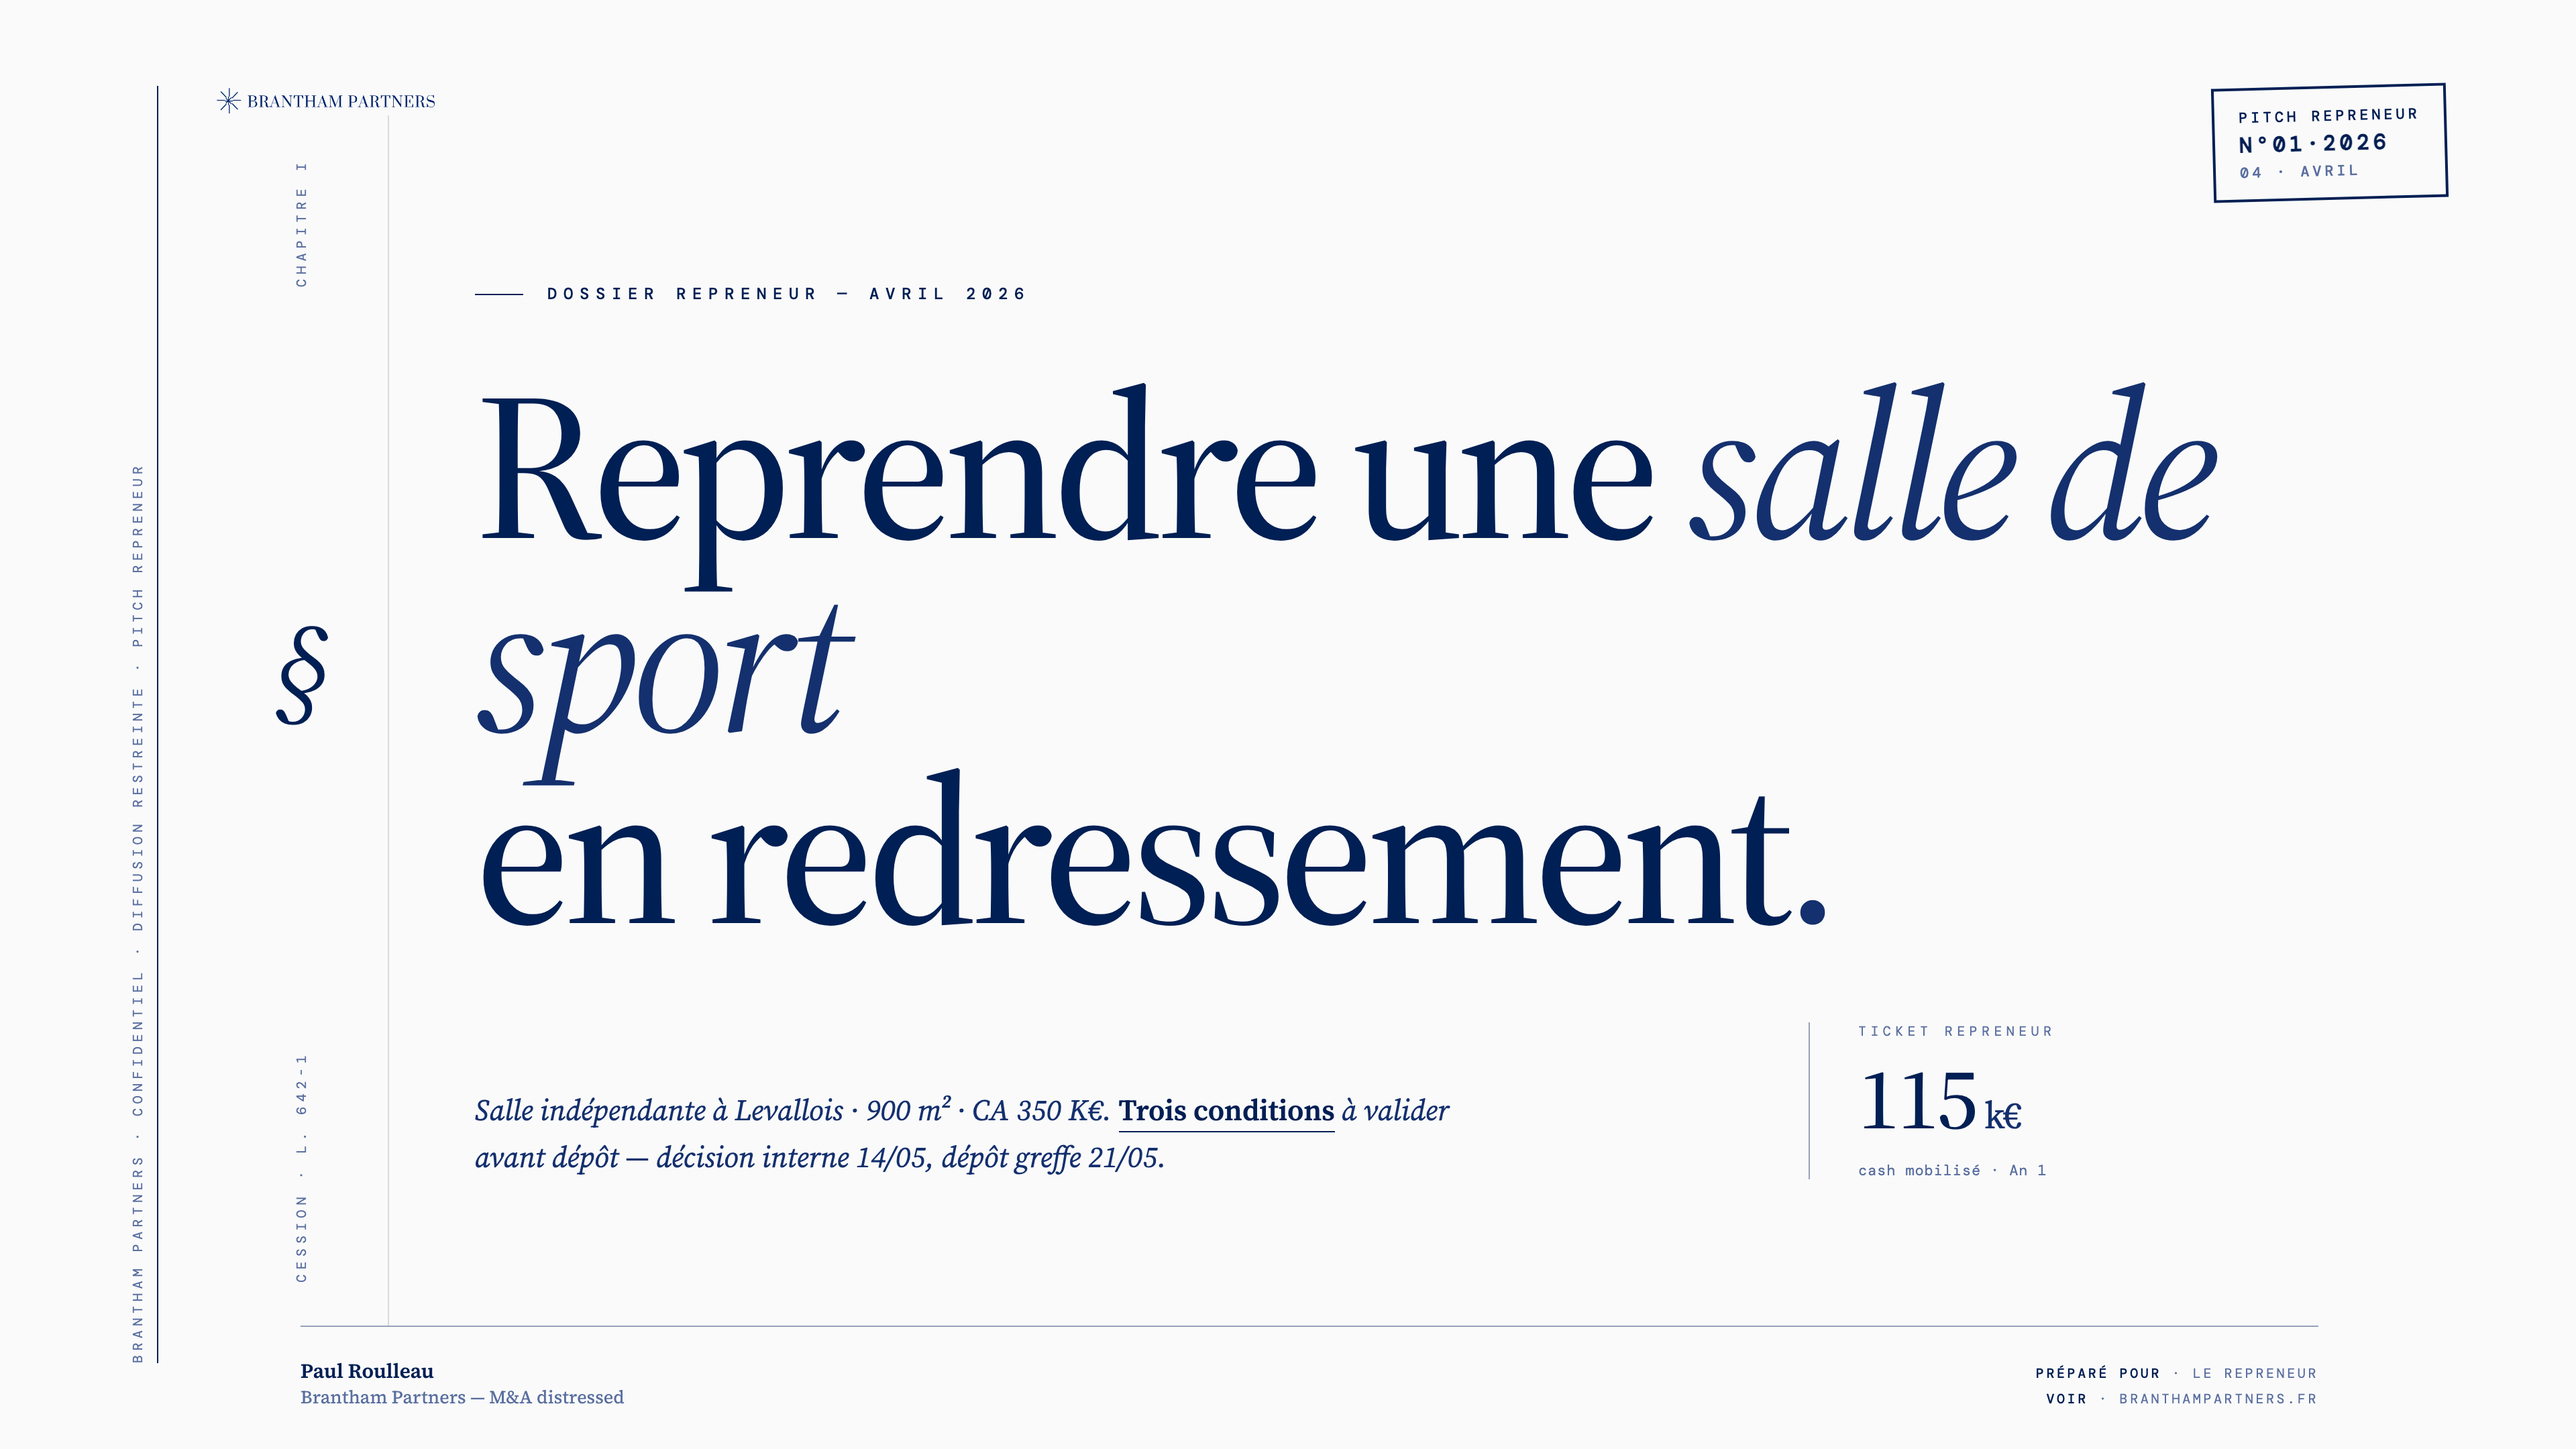
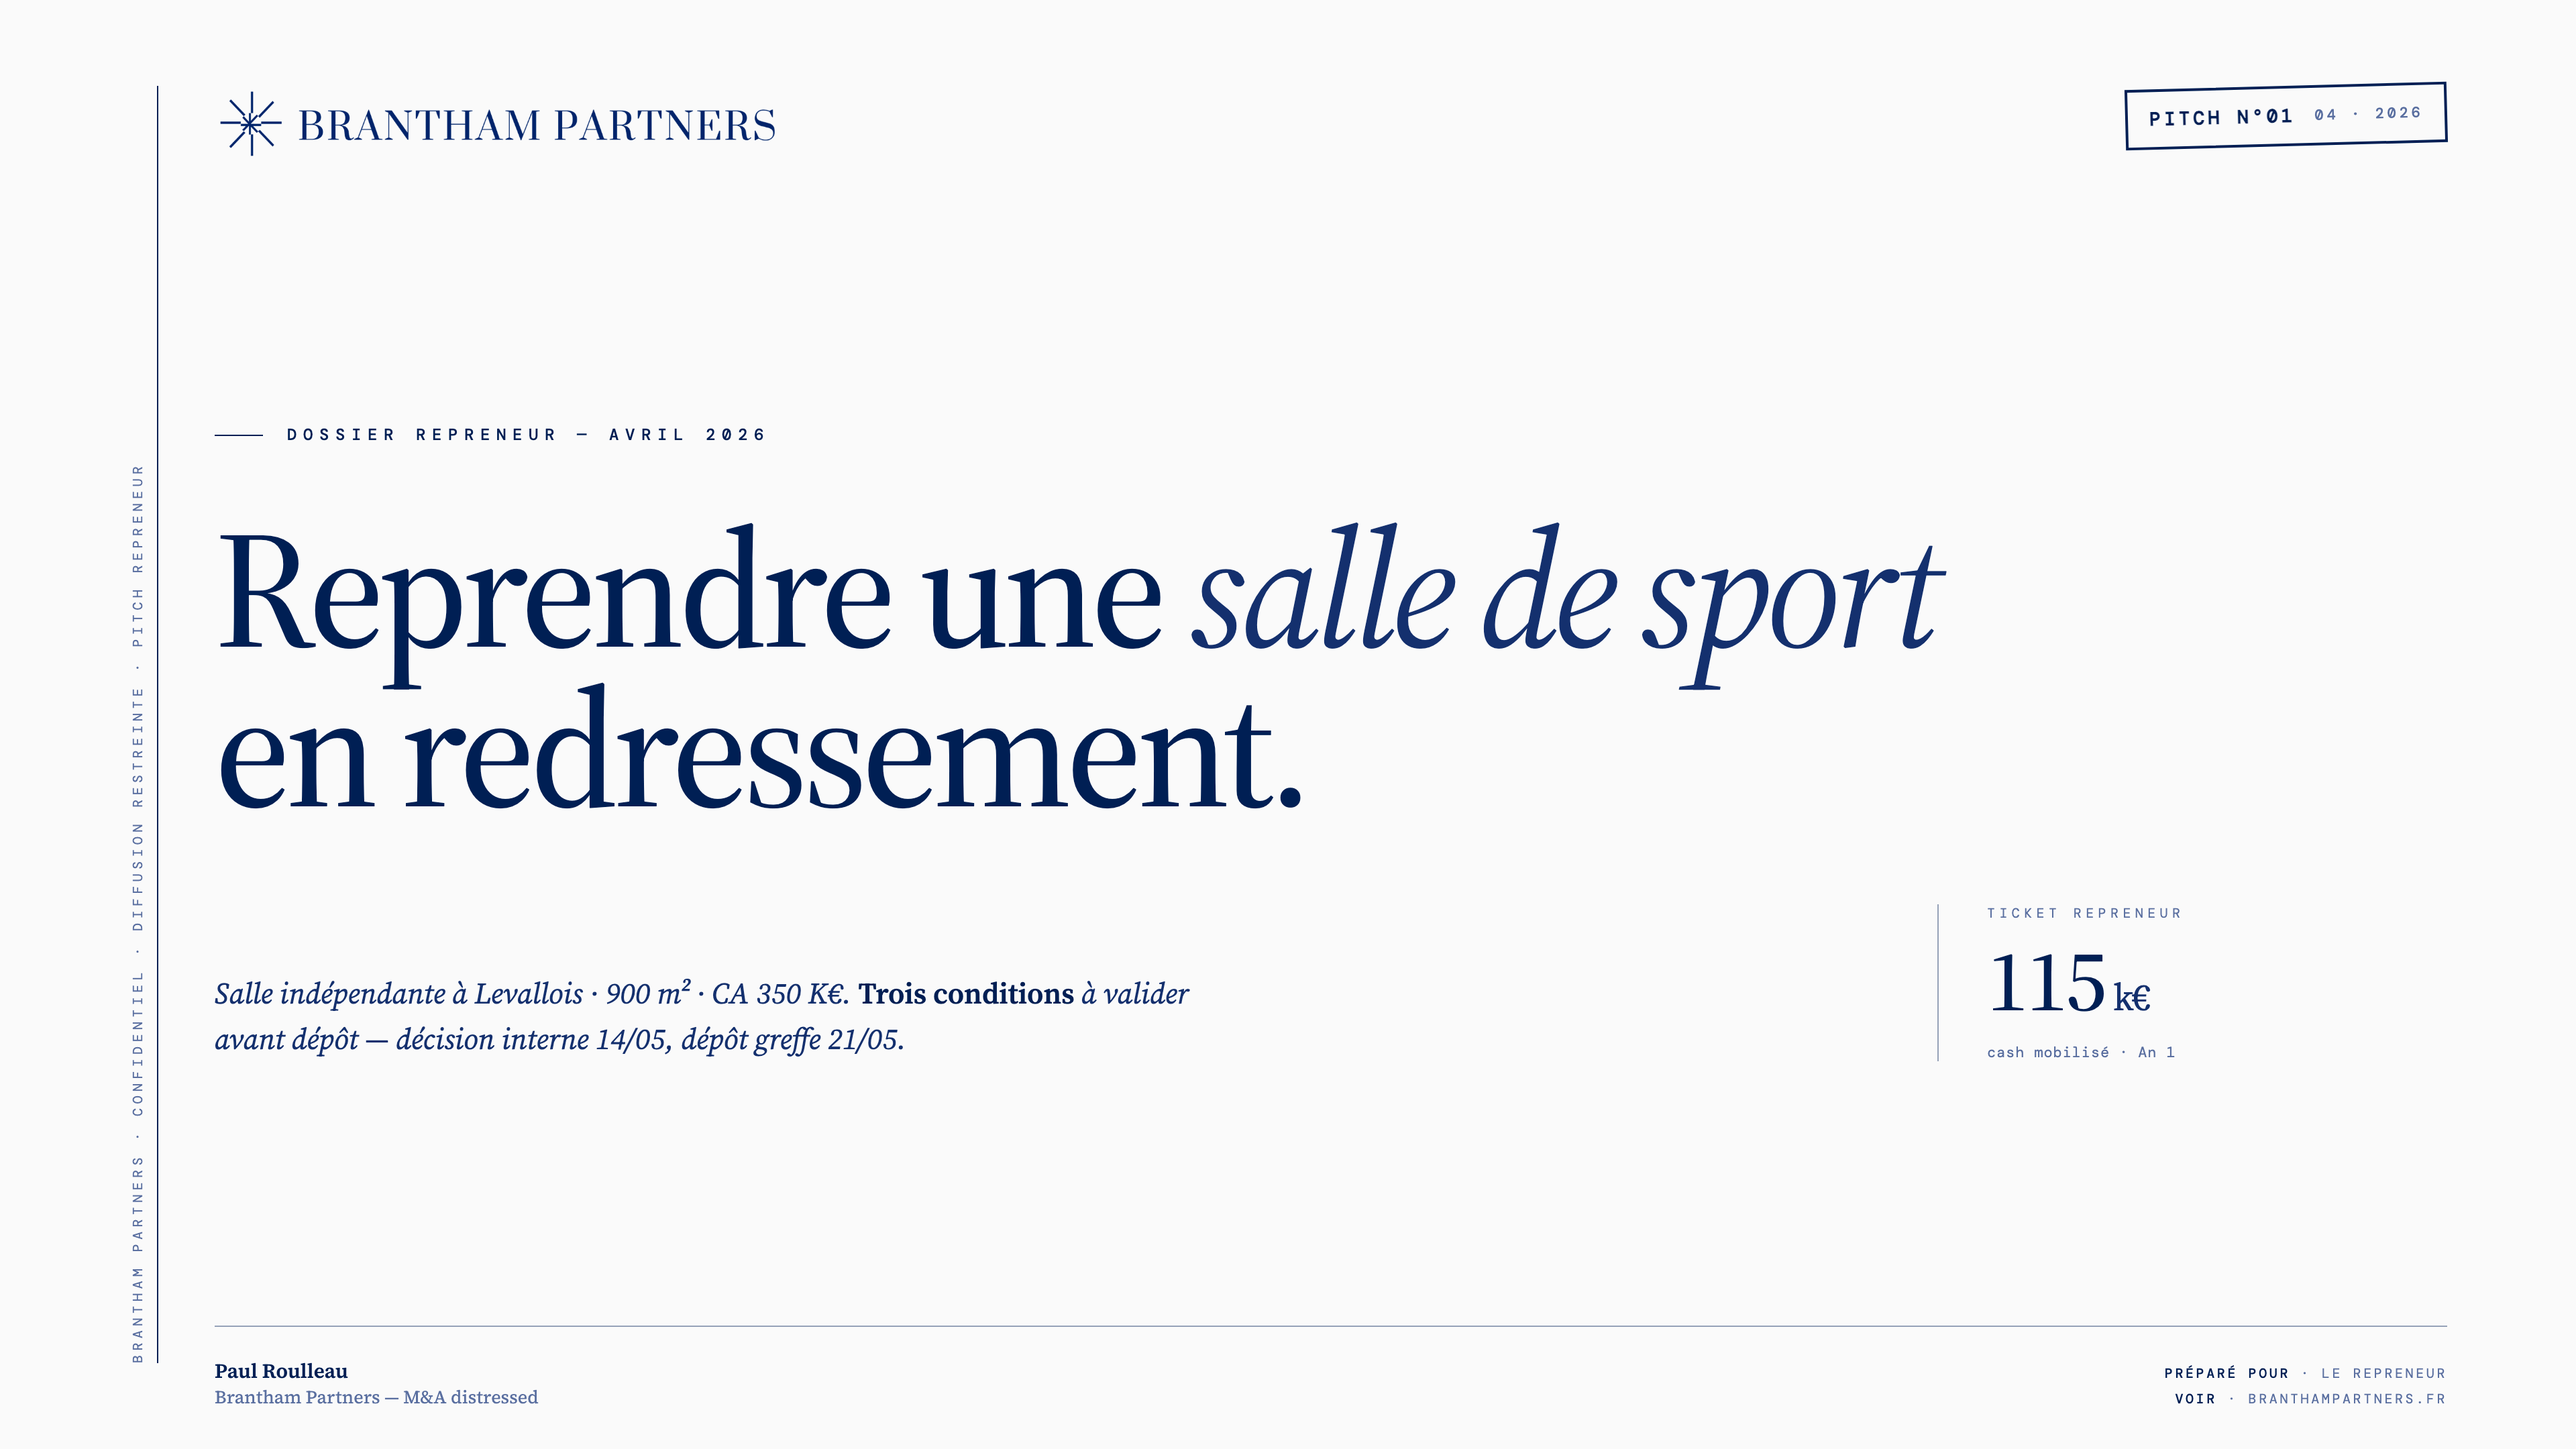
vault: sync 5 file(s) — 2026-04-29 16:05

diff --git a/brantham/deals/active/sas-fitness-levallois/pitch-deck/01-cover-bleu-v2.html b/brantham/deals/active/sas-fitness-levallois/pitch-deck/01-cover-bleu-v2.html
@@ -49,7 +49,7 @@
 
   .cover-title {
     font-family: var(--serif); font-weight: 500;
-    font-size: 124px; line-height: 0.96; letter-spacing: -0.035em;
+    font-size: 104px; line-height: 1.0; letter-spacing: -0.03em;
     color: var(--bleu-deep); max-width: 1480px;
   }
   .cover-title .it {

diff --git a/brantham/sessions/auto-health-2026-04-29.md b/brantham/sessions/auto-health-2026-04-29.md
@@ -1,0 +1,5 @@
+- ALERTE : PostgreSQL DOWN — relance...
+- ALERTE : FastAPI DOWN — relance...
+- ALERTE : Node server DOWN — relance...
+
+## Health Check 16:05 — 3 problemes detectes et corriges
